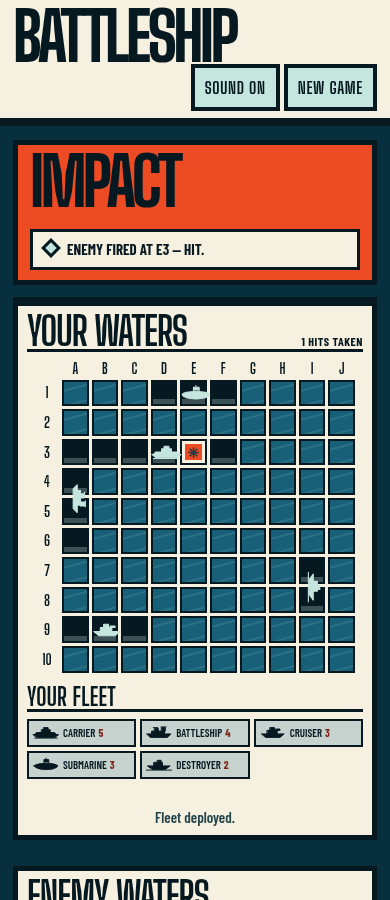
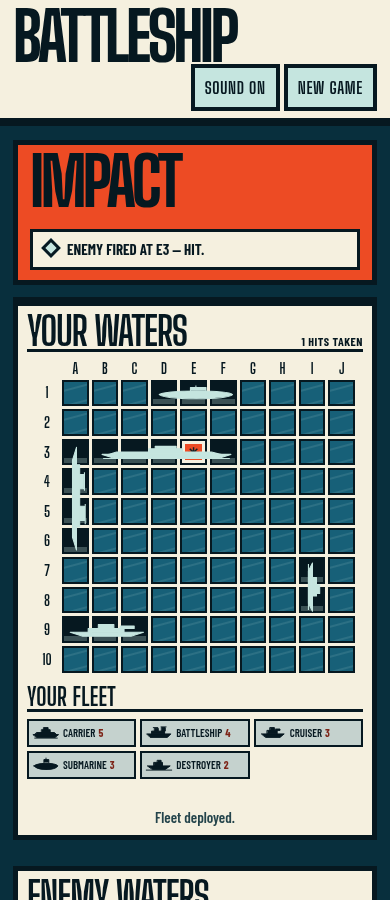
Draw elongated vessel profiles

diff --git a/src/components/ShipIcon.tsx b/src/components/ShipIcon.tsx
@@ -3,17 +3,63 @@ import type { ShipName } from '../game/types';
 type ShipIconProps = {
   name: ShipName;
   className?: string;
+  profile?: boolean;
 };
 
-export function ShipIcon({ name, className = '' }: ShipIconProps) {
+const profileViewBox: Record<ShipName, string> = {
+  Carrier: '0 0 180 20',
+  Battleship: '0 0 145 20',
+  Cruiser: '0 0 110 20',
+  Submarine: '0 0 110 20',
+  Destroyer: '0 0 70 20',
+};
+
+export function ShipIcon({ name, className = '', profile = false }: ShipIconProps) {
   return (
     <svg
       className={`ship-icon ship-icon-${name.toLowerCase()} ${className}`}
-      viewBox="0 0 40 20"
+      viewBox={profile ? profileViewBox[name] : '0 0 40 20'}
       aria-hidden="true"
       focusable="false"
     >
-      {name === 'Carrier' && (
+      {profile && name === 'Carrier' && (
+        <>
+          <path d="M10 13h160l-16 5H26z" />
+          <path d="M28 10h118l12 3H18z" />
+          <path d="M68 6h42v4H68zM76 3h26v3H76z" />
+          <path d="M12 18h156" />
+        </>
+      )}
+      {profile && name === 'Battleship' && (
+        <>
+          <path d="M8 13h129l-16 5H24z" />
+          <path d="M30 9h78v4H30z" />
+          <path d="M42 4h18v5H42zM82 3h18v6H82z" />
+          <path d="M40 3h22M80 2h24" />
+        </>
+      )}
+      {profile && name === 'Cruiser' && (
+        <>
+          <path d="M8 13h94l-16 5H24z" />
+          <path d="M31 8h46v5H31z" />
+          <path d="M44 3h20v5H44zM72 5h18v3H72z" />
+        </>
+      )}
+      {profile && name === 'Submarine' && (
+        <>
+          <path d="M8 12c9-6 87-6 94 0-8 7-85 7-94 0Z" />
+          <path d="M48 7V3h20v4M55 3V1" />
+          <path d="M20 12h70" />
+        </>
+      )}
+      {profile && name === 'Destroyer' && (
+        <>
+          <path d="M5 13h60l-10 5H15z" />
+          <path d="M23 8h23v5H23zM32 4h11v4H32z" />
+          <path d="M7 18h56" />
+        </>
+      )}
+      {!profile && name === 'Carrier' && (
         <>
           <path d="M2 13h36l-5 4H7z" />
           <path d="M7 10h25l3 3H4z" />
@@ -21,7 +67,7 @@ export function ShipIcon({ name, className = '' }: ShipIconProps) {
           <path d="M4 18h32" />
         </>
       )}
-      {name === 'Battleship' && (
+      {!profile && name === 'Battleship' && (
         <>
           <path d="M3 12h34l-5 5H8z" />
           <path d="M10 8h18v4H10z" />
@@ -29,21 +75,21 @@ export function ShipIcon({ name, className = '' }: ShipIconProps) {
           <path d="M12 3h6M23 2h7" />
         </>
       )}
-      {name === 'Cruiser' && (
+      {!profile && name === 'Cruiser' && (
         <>
           <path d="M4 12h32l-6 5H10z" />
           <path d="M12 7h14v5H12z" />
           <path d="M16 3h6v4h-6zM24 5h6v2h-6z" />
         </>
       )}
-      {name === 'Submarine' && (
+      {!profile && name === 'Submarine' && (
         <>
           <path d="M3 12c3-5 31-5 34 0-3 7-31 7-34 0Z" />
           <path d="M17 7V3h7v4M20 3V1" />
           <path d="M8 12h24" />
         </>
       )}
-      {name === 'Destroyer' && (
+      {!profile && name === 'Destroyer' && (
         <>
           <path d="M4 12h32l-7 5H11z" />
           <path d="M13 7h12v5H13zM18 4h5v3h-5z" />

diff --git a/src/components/Cell.tsx b/src/components/Cell.tsx
@@ -76,7 +76,7 @@ export function Cell({
           }}
           aria-hidden="true"
         >
-          <ShipIcon name={vessel.name} />
+          <ShipIcon name={vessel.name} profile />
         </span>
       )}
     </button>

diff --git a/DESIGN.md b/DESIGN.md
@@ -25,9 +25,10 @@ active call to action and combat states.
   repeating as a dinghy stamp in every occupied cell.
 - The attack mark is an authored crosshair-and-projectile SVG used in the fire
   invitation, incoming AI beat, and board legend.
-- Ship silhouettes span each own-board hull once, oriented with the vessel and
-  scaled to its footprint; enemy class silhouettes remain hidden until that
-  vessel is sunk, when the same class identity is revealed.
+- Ship silhouettes span each own-board hull once, using elongated class-specific
+  profiles oriented with the vessel and scaled to its footprint; enemy class
+  silhouettes remain hidden until that vessel is sunk, when the same class
+  identity is revealed.
 - Sunk hulls use the full class silhouette without repeating boxed-saltire
   marks; the legend uses a compact vessel silhouette for that reveal grammar.
 - Fired states stay value-separated on petrol water: a quiet flattened-water
